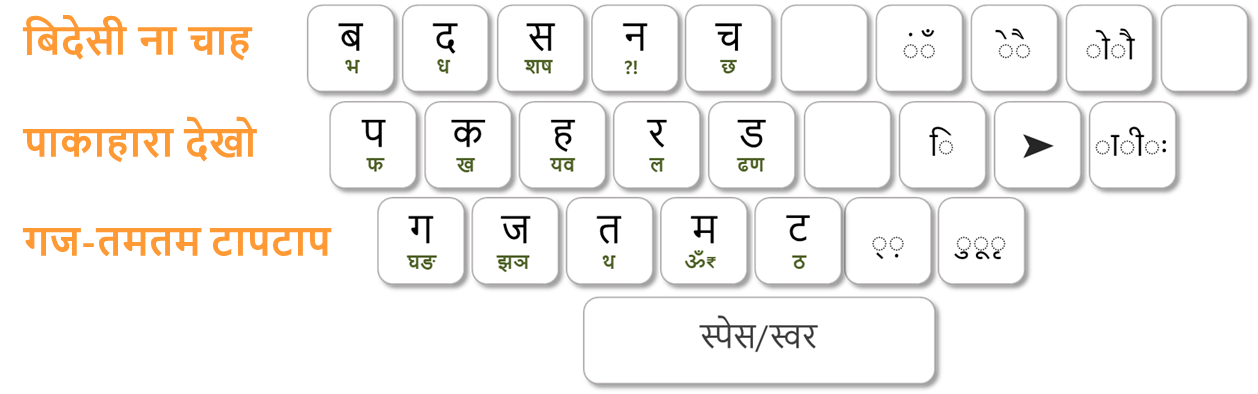
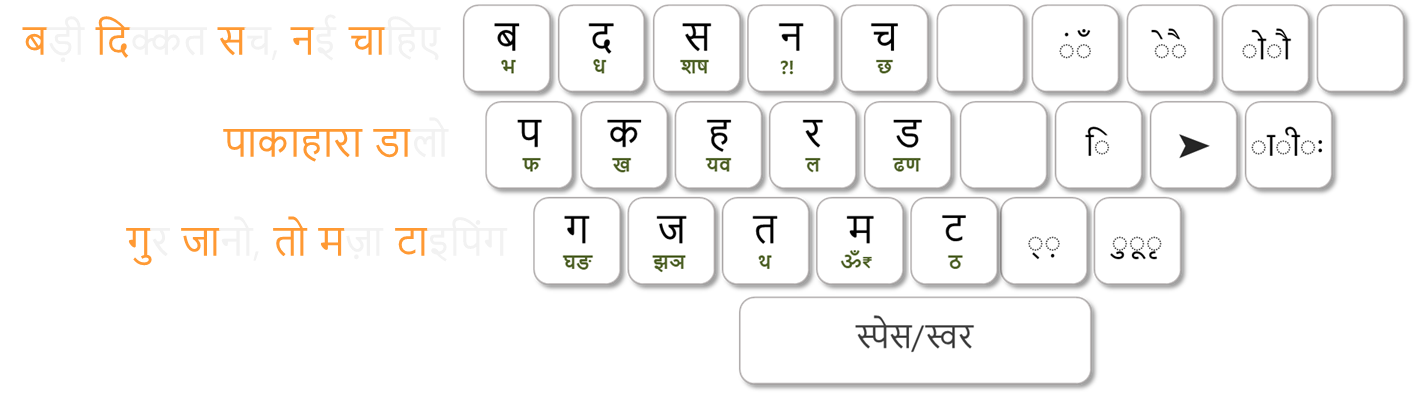
Add files via upload

Changed region(s): [[0.0, 0.0, 0.961, 1.0], [0.558, 0.8223, 0.713, 0.8832], [0.465, 0.9442, 0.527, 1.0]]

diff --git a/pc_demo_windows.html b/pc_demo_windows.html
@@ -83,18 +83,19 @@
   .mnemonic-text {
     flex-shrink: 0;
     position: relative;
-    width: 200px;
+    width: 220px;
     height: 105px;
     color: #fff;
     font-family: 'Noto Sans Devanagari', sans-serif;
     font-weight: 700;
     font-size: 19px;
-    text-align: left;
+    text-align: right;
     text-shadow: 1px 1px 5px rgba(0,0,0,0.65);
     white-space: nowrap;
   }
-  /* 각 줄의 top은 JS에서 옆 키맵의 해당 행과 같은 높이로 맞춘다 */
-  .mnemonic-text p { margin: 0; position: absolute; left: 0; right: 0; transform: translateY(-50%); }
+  .mnemonic-text .hl { color: #f59e0b; }
+  /* 각 줄의 top/right는 JS에서 옆 키맵의 해당 행(계단식 위치)에 맞춰 계산한다 */
+  .mnemonic-text p { margin: 0; position: absolute; right: 0; white-space: nowrap; transform: translateY(-50%); }
   .keyboard-pc {
     transform: scale(0.48);
     transform-origin: center;
@@ -103,7 +104,7 @@
     gap: 8px;
     width: 850px;
     flex-shrink: 0;
-    margin-left: -200px;
+    margin-left: 0px;
     margin-top: -70px;
     align-self: flex-start;
   }
@@ -171,9 +172,9 @@
 
 <div class="kbd-area">
   <div class="mnemonic-text">
-    <p>बिदेसी ना चाह</p>
-    <p>पाकाहारा देखो</p>
-    <p>गज-तमतम टापटाप</p>
+    <p><span class="hl">ब</span>ड़ी <span class="hl">दि</span>क्कत <span class="hl">स</span>च, <span class="hl">न</span>ई <span class="hl">चा</span>हिए</p>
+    <p><span class="hl">पाकाहारा</span> <span class="hl">डा</span>लो</p>
+    <p><span class="hl">गु</span>र <span class="hl">जा</span>नो, <span class="hl">तो</span> <span class="hl">म</span>ज़ा <span class="hl">टा</span>इपिंग</p>
   </div>
   <div class="baby-guide-container">
     <div class="keyboard-pc" id="kbd">
@@ -183,7 +184,7 @@
     </div>
   </div>
   <button class="challenge-btn" onclick="location.href='challenge.html'">
-    🏆 बिना देखे<br>टाइप करें!
+    🏆 बिना देखे टाइप करें!
   </button>
 </div>
 
@@ -476,19 +477,34 @@ function resetEditor() {
 
 initKbd();
 
-// 암기 문구 각 줄을 옆 키맵의 1~3행과 같은 높이로 정렬
+// 문구 박스 폭을 도전 버튼 폭과 맞춰서 키맵이 항상 정중앙에 오게 한다
+function syncMnemonicWidth() {
+  const box = document.querySelector('.mnemonic-text');
+  const btn = document.querySelector('.challenge-btn');
+  box.style.width = '';
+  box.style.width = btn.getBoundingClientRect().width + 'px';
+}
+
+// 암기 문구 각 줄을 옆 키맵의 1~3행 "첫 키"와 같은 높이 + 같은 간격(계단식)으로 정렬
+// (행 컨테이너 자체는 padding-left가 있어도 위치가 안 밀리므로 첫 키 기준으로 재야 한다)
+const MNEMONIC_GAP = 18; // 각 문구 줄 ~ 해당 키맵 행 사이 간격(px)
 function alignMnemonic() {
+  syncMnemonicWidth();
   const box = document.querySelector('.mnemonic-text');
   const ps = box.querySelectorAll('p');
-  const boxTop = box.getBoundingClientRect().top;
+  const boxRect = box.getBoundingClientRect();
   ['row1','row2','row3'].forEach((id, i) => {
-    const rowRect = document.getElementById(id).getBoundingClientRect();
-    const rowCenter = rowRect.top + rowRect.height / 2;
-    ps[i].style.top = (rowCenter - boxTop) + 'px';
+    const rowEl = document.getElementById(id);
+    const keyRect = (rowEl.firstElementChild || rowEl).getBoundingClientRect();
+    const rowCenter = keyRect.top + keyRect.height / 2;
+    ps[i].style.top = (rowCenter - boxRect.top) + 'px';
+    ps[i].style.right = (boxRect.right - keyRect.left + MNEMONIC_GAP) + 'px';
   });
 }
 alignMnemonic();
 window.addEventListener('resize', alignMnemonic);
+// 웹폰트가 늦게 로드되면 버튼/문구 폭이 달라지므로 로드 완료 후 다시 맞춘다
+if (document.fonts && document.fonts.ready) document.fonts.ready.then(alignMnemonic);
 </script>
 </body>
 </html>